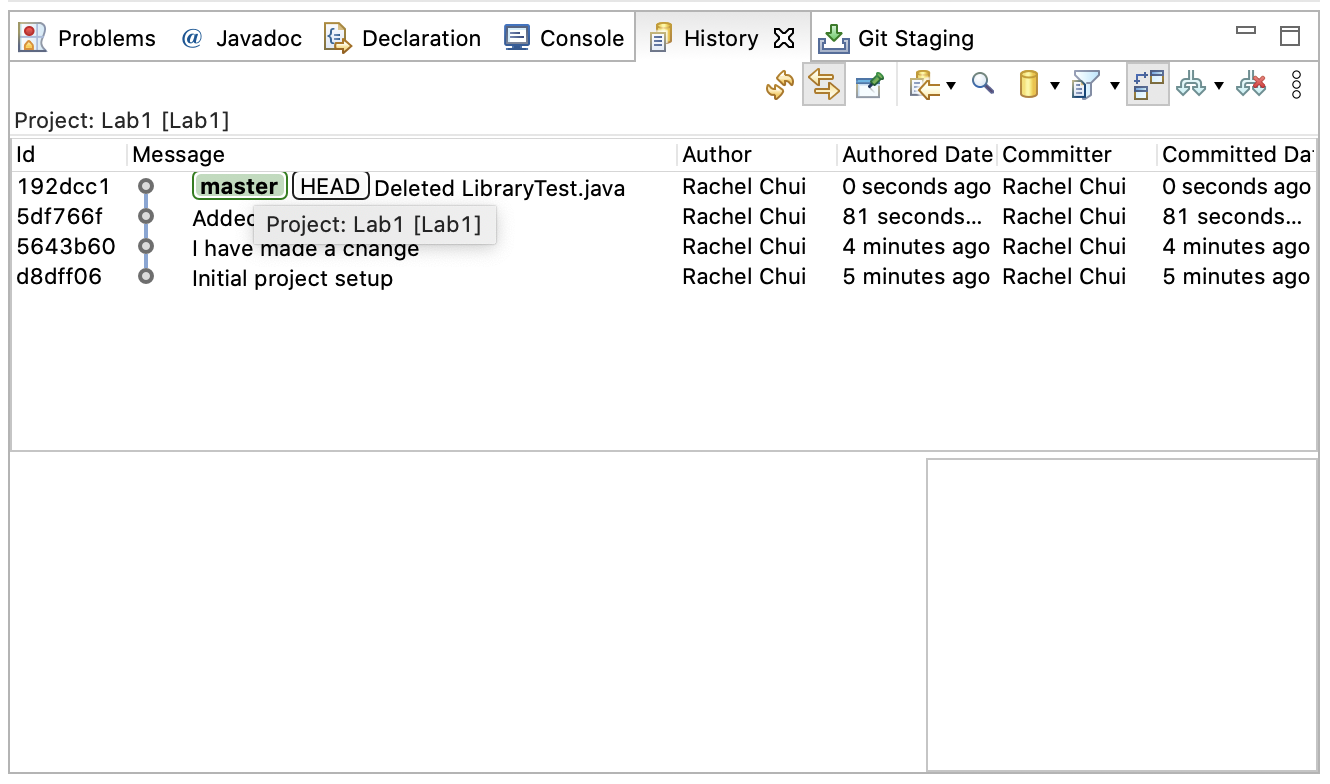
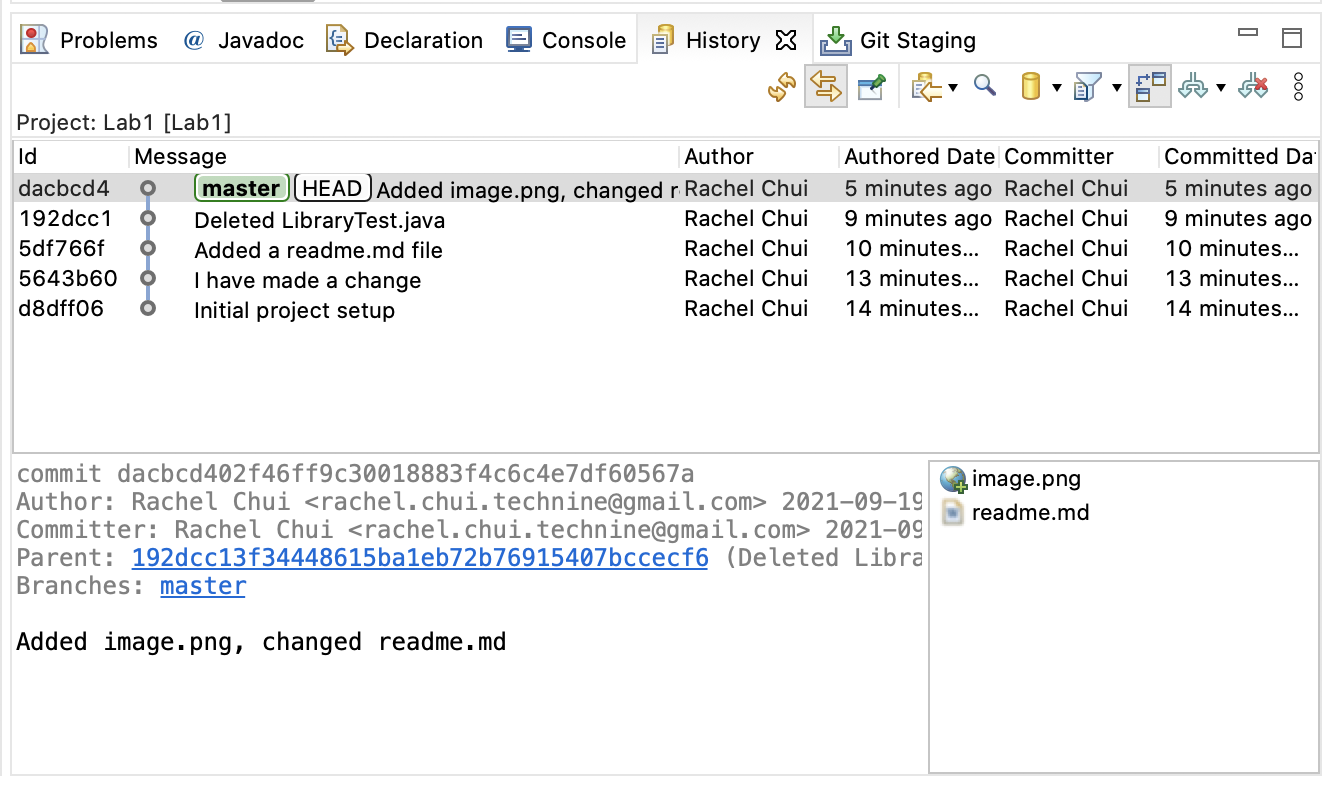
Better image, modified readme.md

Changed region(s): [[0.0, 0.0, 1.0, 1.0]]

diff --git a/readme.md b/readme.md
@@ -1,3 +1,3 @@
-Rachel Chui
-12345678
-image: ../image.png
+Name: Rachel Chui  
+ID: 12345678  
+![](image.png)
